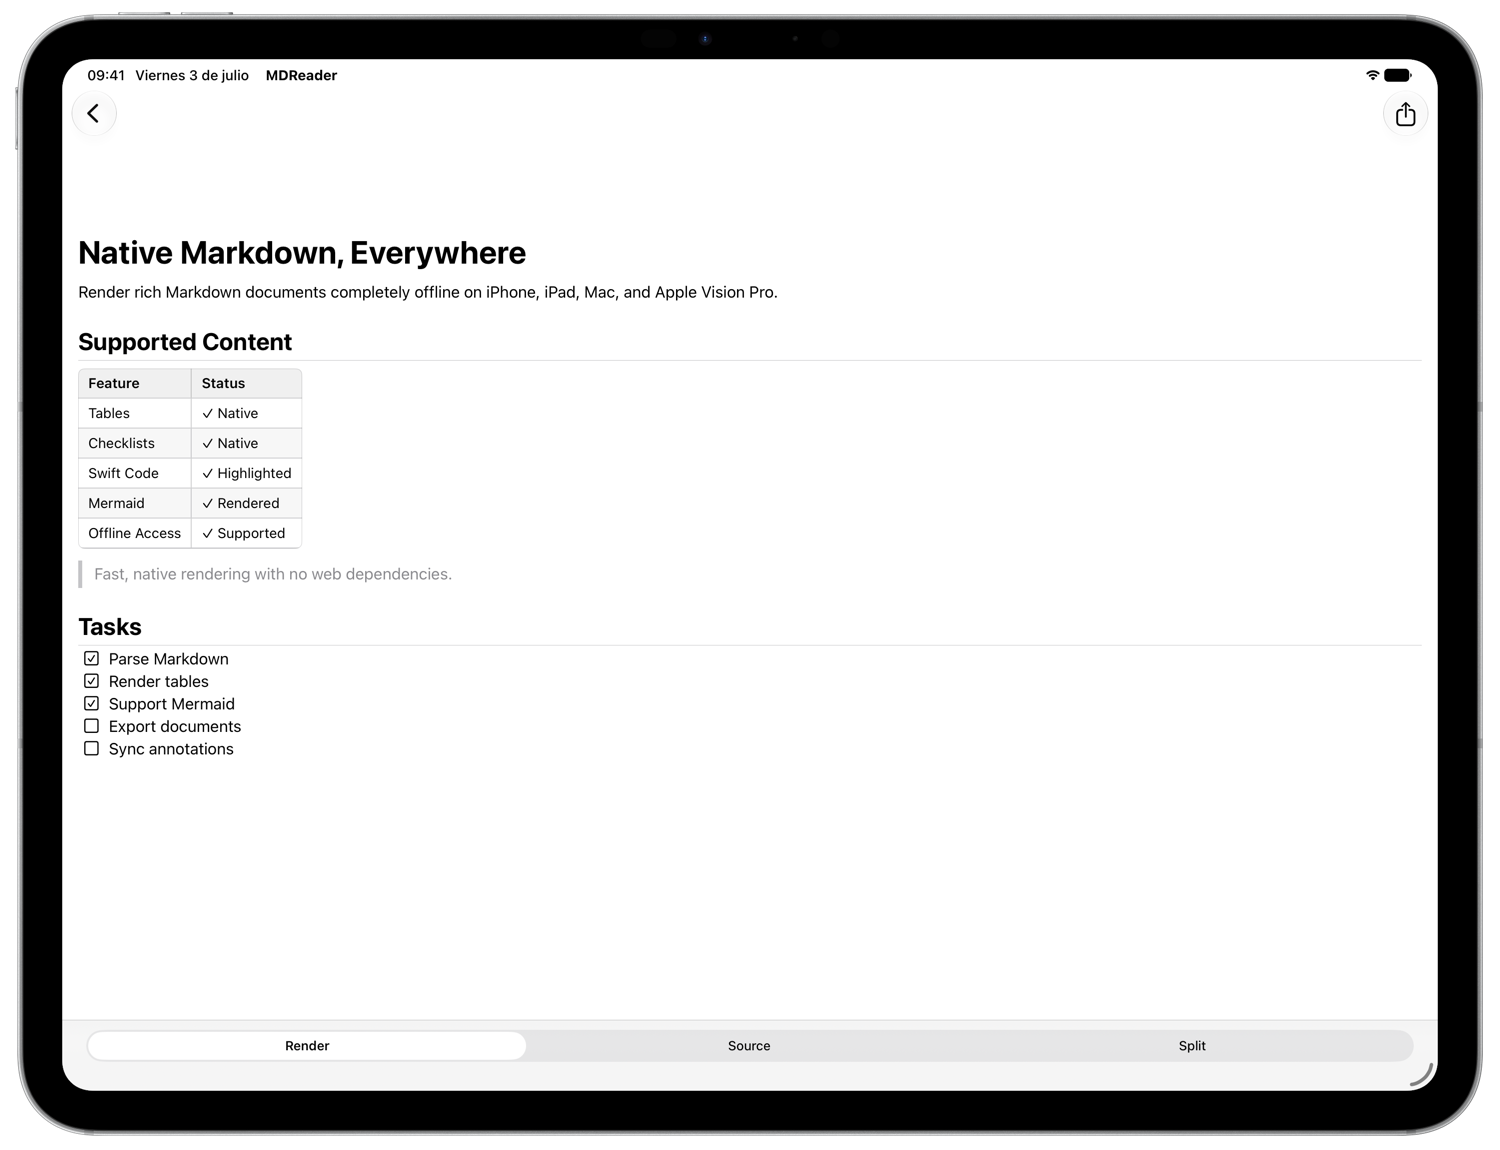
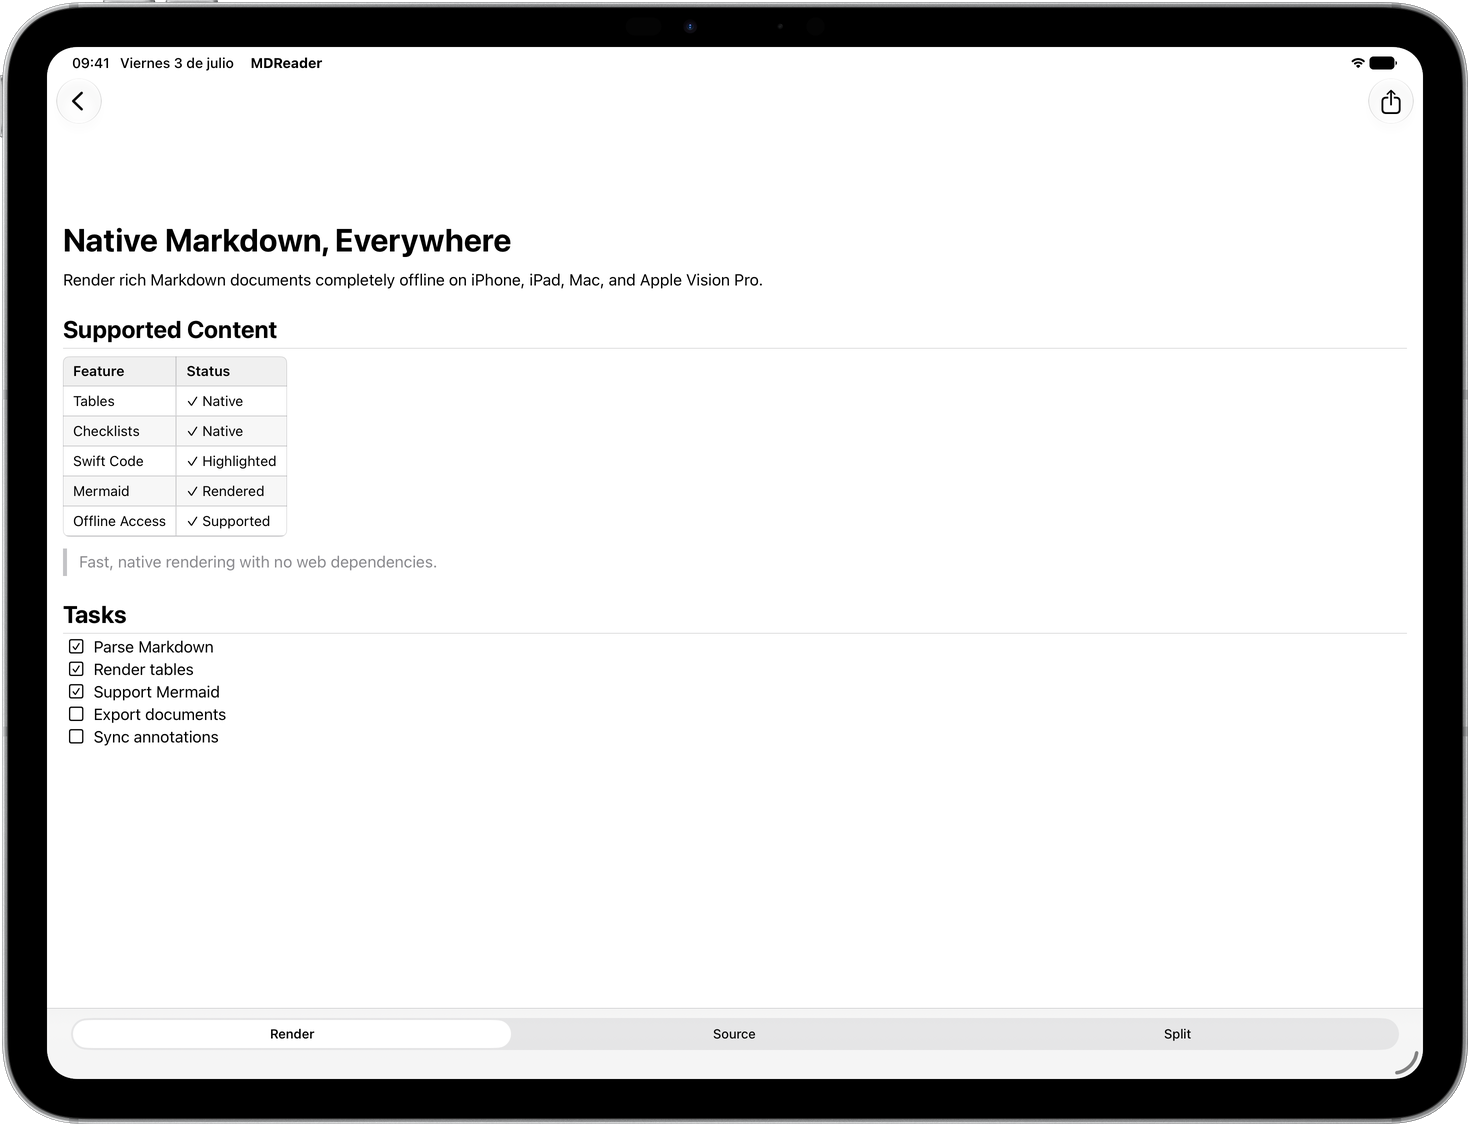
fix(web): remove dark ring box-shadow from iPad hero + update iPad PNGs (EN/ES/FR)

Changed region(s): [[0.0, 0.0, 1.0, 1.0]]

diff --git a/mdreader/index.html b/mdreader/index.html
@@ -142,17 +142,11 @@
     @keyframes glow-pulse {
       0%, 100% {
         box-shadow:
-          0 0 0 1px rgba(255,255,255,.10),
-          0 0 0 16px #0d0d0f,
-          0 0 0 17px rgba(255,255,255,.06),
           0 36px 80px rgba(0,122,255,.18),
           0 8px 40px rgba(0,0,0,.85);
       }
       50% {
         box-shadow:
-          0 0 0 1px rgba(255,255,255,.14),
-          0 0 0 16px #0d0d0f,
-          0 0 0 17px rgba(255,255,255,.08),
           0 40px 120px rgba(0,122,255,.38),
           0 8px 40px rgba(0,0,0,.85);
       }

diff --git a/mdreader/es/index.html b/mdreader/es/index.html
@@ -72,17 +72,11 @@
     @keyframes glow-pulse {
       0%, 100% {
         box-shadow:
-          0 0 0 1px rgba(255,255,255,.10),
-          0 0 0 16px #0d0d0f,
-          0 0 0 17px rgba(255,255,255,.06),
           0 36px 80px rgba(0,122,255,.18),
           0 8px 40px rgba(0,0,0,.85);
       }
       50% {
         box-shadow:
-          0 0 0 1px rgba(255,255,255,.14),
-          0 0 0 16px #0d0d0f,
-          0 0 0 17px rgba(255,255,255,.08),
           0 40px 120px rgba(0,122,255,.38),
           0 8px 40px rgba(0,0,0,.85);
       }

diff --git a/mdreader/fr/index.html b/mdreader/fr/index.html
@@ -72,17 +72,11 @@
     @keyframes glow-pulse {
       0%, 100% {
         box-shadow:
-          0 0 0 1px rgba(255,255,255,.10),
-          0 0 0 16px #0d0d0f,
-          0 0 0 17px rgba(255,255,255,.06),
           0 36px 80px rgba(0,122,255,.18),
           0 8px 40px rgba(0,0,0,.85);
       }
       50% {
         box-shadow:
-          0 0 0 1px rgba(255,255,255,.14),
-          0 0 0 16px #0d0d0f,
-          0 0 0 17px rgba(255,255,255,.08),
           0 40px 120px rgba(0,122,255,.38),
           0 8px 40px rgba(0,0,0,.85);
       }
